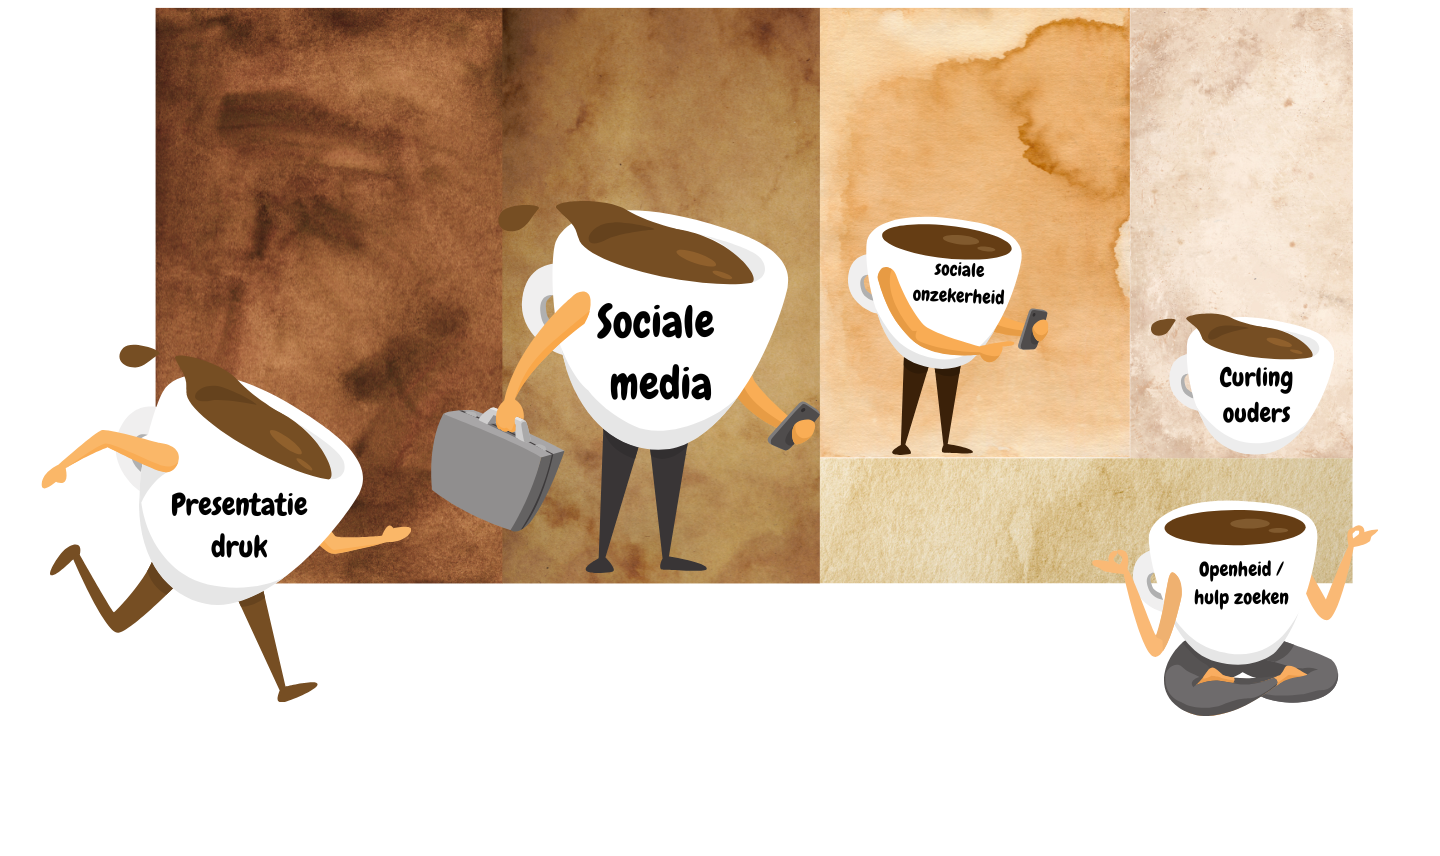
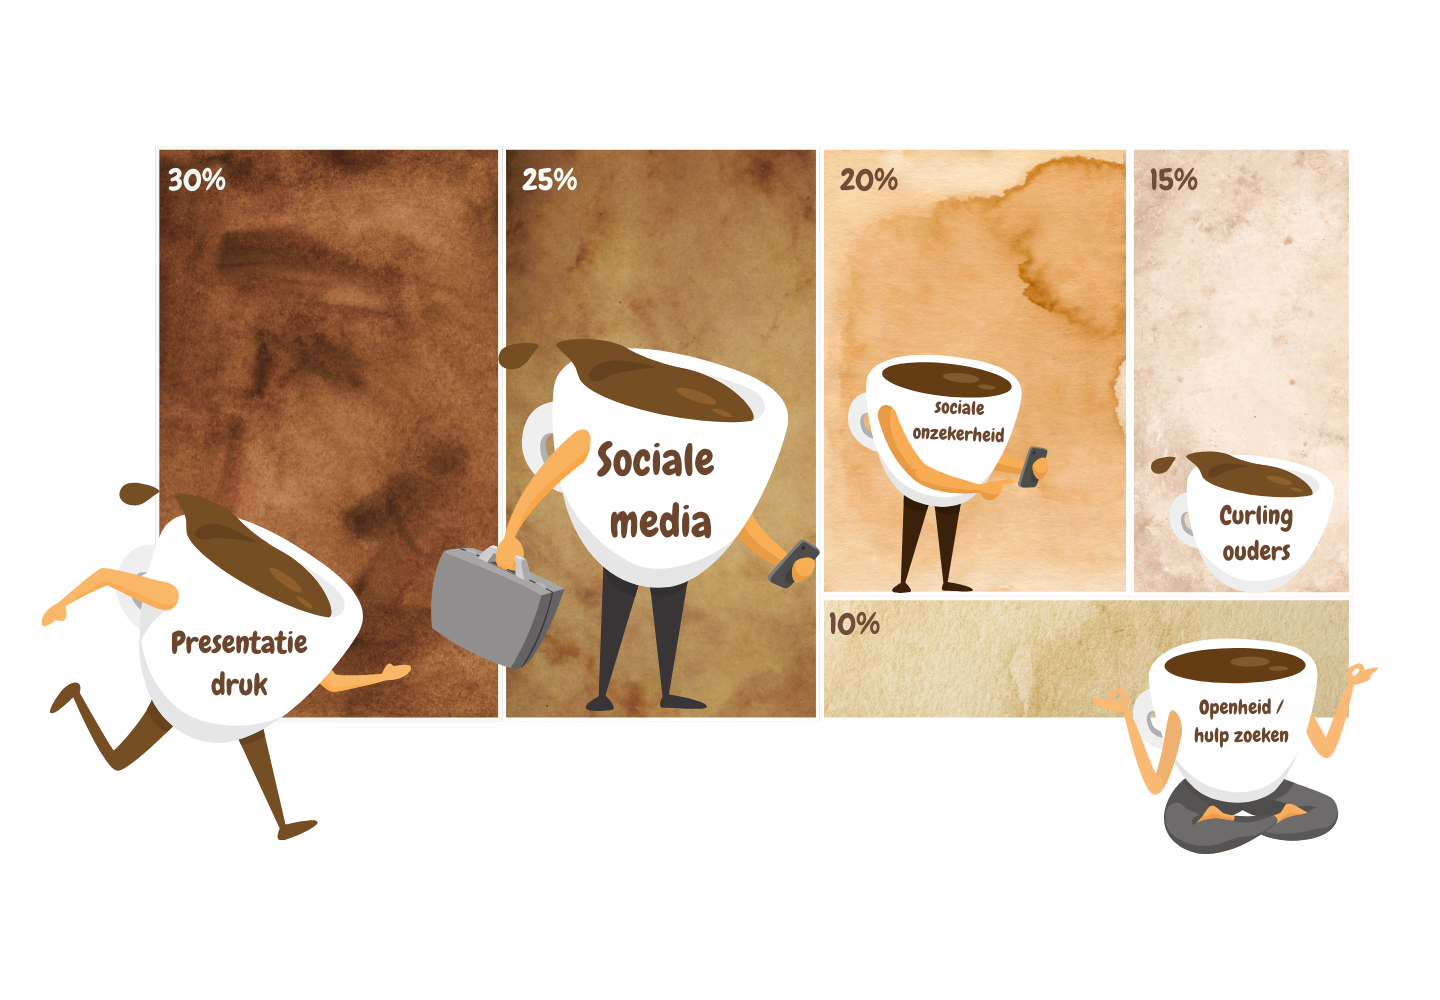
feedback henrdrik, iconen naar personen en de graphic met percentages zodat het een grafiek word

diff --git a/Home.html b/Home.html
@@ -299,7 +299,7 @@
             <span class="proef2-number">3 op de 10 </span>
             <h2 class="proef2-titel">Tevredenheid</h2>
             <img
-              src="Images/iconen/tevredenheid.png"
+              src="Images/iconen/3personen.png"
               alt="Tevredenheid icoon"
               class="proef2-icon"
             />
@@ -308,7 +308,7 @@
             <span class="proef2-number">4 op de 10</span>
             <h2 class="proef2-titel">Toegewijd</h2>
             <img
-              src="Images/iconen/toegewijd.png"
+              src="Images/iconen/4personen.png"
               alt="Bevlogenheid icoon"
               class="proef2-icon"
             />
@@ -334,7 +334,7 @@
             <span class="proef2-number">5 op de 10</span>
             <h2 class="proef2-titel">Tevredenheid</h2>
             <img
-              src="Images/iconen/tevredenheid.png"
+              src="Images/iconen/5personen.png"
               alt="Tevredenheid icoon"
               class="proef2-icon"
             />
@@ -343,7 +343,7 @@
             <span class="proef2-number">6 op de 10</span>
             <h2 class="proef2-titel">Toegewijd</h2>
             <img
-              src="Images/iconen/toegewijd.png"
+              src="Images/iconen/6personen.png"
               alt="Bevlogenheid icoon"
               class="proef2-icon"
             />
@@ -574,7 +574,7 @@
             />
           </div>
         </div>
-        <p class="graph-source2">
+        <p class="graph-source">
   Bronnen: 4 Day Week Global (2023), <i>UK Pilot Results</i>; 4 Day Week Global (2022), <i>International Impact Report</i>; OECD (2023), <i>Working time, productivity and well-being after COVID-19</i>; Reykjavik City Council & Icelandic Government (2021), <i>The Icelandic Trials of a Shorter Working Week</i>.
 </p>
       </div>
